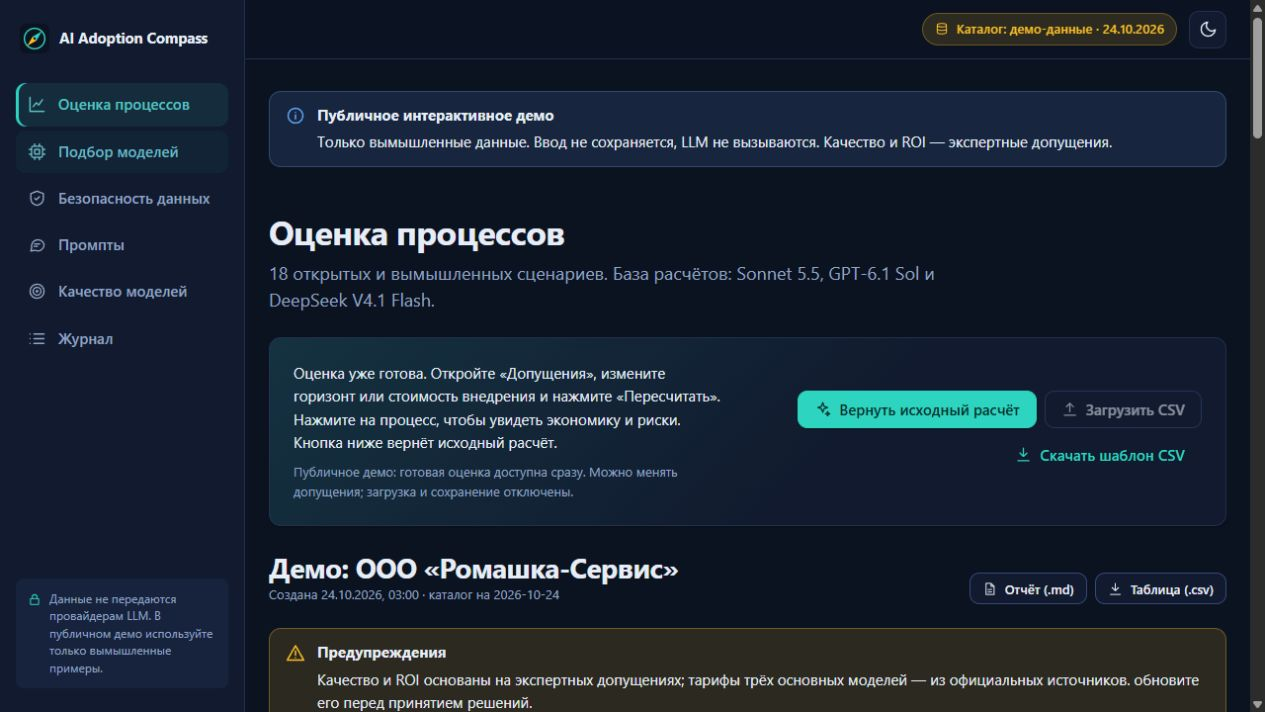
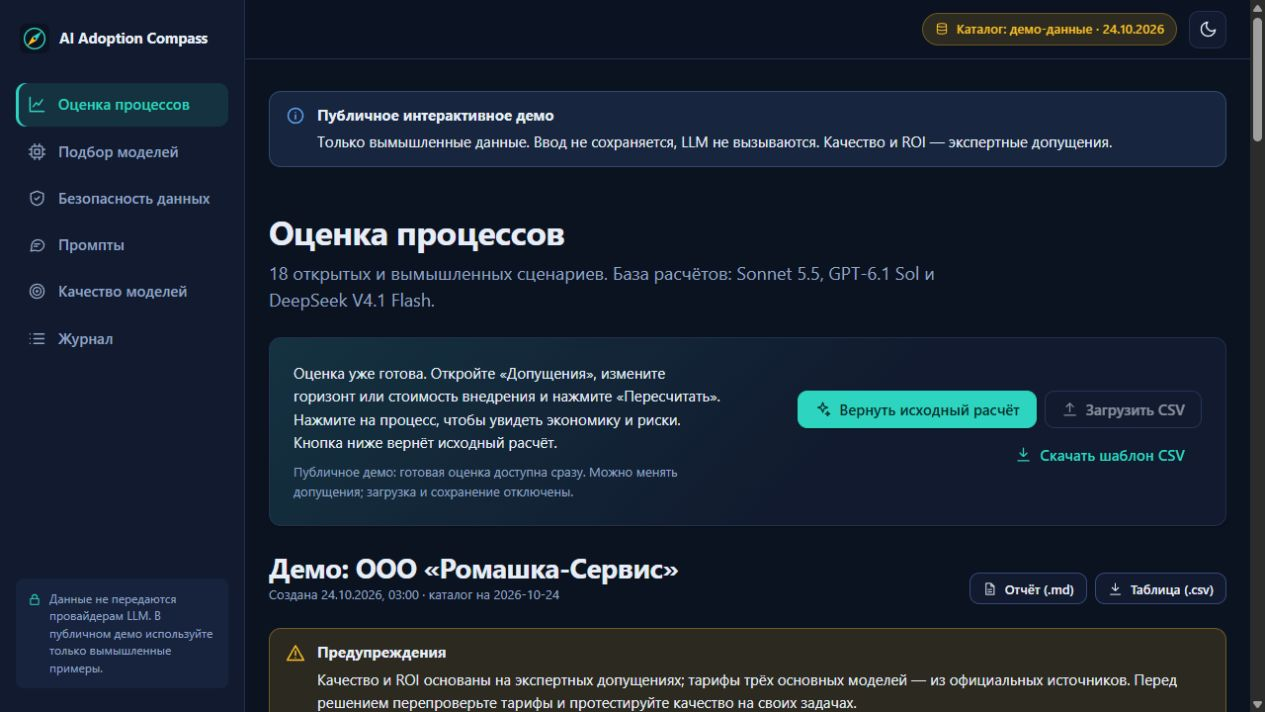
Use the shared expert matrix in the model quality section

Changed region(s): [[0.2466, 0.9579, 0.6783, 1.0], [0.8941, 0.927, 0.9557, 0.9888]]

diff --git a/web/src/pages/evals/EvalsPage.tsx b/web/src/pages/evals/EvalsPage.tsx
@@ -1,12 +1,13 @@
 import { useState } from "react";
-import { getEvalDemo, getMeasuredEvals } from "../../api/client";
-import type { EvalDemo } from "../../api/types";
+import { getCatalog, getEvalDemo, getMeasuredEvals } from "../../api/client";
+import type { EvalDemo, TaskType } from "../../api/types";
 import { Banner, ErrorBanner } from "../../components/ui/Banner";
 import { Button } from "../../components/ui/Button";
 import { CopyButton } from "../../components/ui/CopyButton";
 import { PageHeader } from "../../components/ui/PageHeader";
 import { LoadingRegion, Skeleton } from "../../components/ui/Skeleton";
 import { useAsync } from "../../hooks/useAsync";
+import { useMeta } from "../../hooks/useMeta";
 import { downloadTextFile } from "../../lib/download";
 import { formatCount } from "../../lib/format";
 import { ComparisonTable, pickHighlights } from "./ComparisonTable";
@@ -17,37 +18,41 @@ export const CLI_SNIPPET = [
   "compass eval run -p baseline -p api --base-url https://… --model … --catalog-id …",
 ].join("\n");
 
-export function EvalsPage({ initialMode = "measured" }: { initialMode?: "measured" | "simulated" }) {
-  const [mode, setMode] = useState(initialMode);
-  const evals = useAsync((signal) => mode === "measured" ? getMeasuredEvals(signal) : getEvalDemo(signal), `evals-${mode}`);
+export function EvalsPage({ initialMode }: { initialMode?: "measured" | "simulated" }) {
+  const meta = useMeta();
+  const [mode, setMode] = useState<"expert" | "measured" | "simulated">(initialMode ?? (meta.demo_mode ? "expert" : "measured"));
+  const evals = useAsync(mode === "expert" ? null : (signal) => mode === "measured" ? getMeasuredEvals(signal) : getEvalDemo(signal), `evals-${mode}`);
   const [selected, setSelected] = useState<string | null>(null);
 
   return (
     <>
       <PageHeader
         title="Качество моделей"
-        lead="Сравнение моделей на размеченном наборе: точность, задержка и стоимость. Решение о модели принимают по цифрам на своих данных, а не по рекламе."
+        lead="Экспертные оценки Sonnet 5.5, GPT‑6.1 Sol и DeepSeek V4.1 Flash, используемые в подборе и ROI. Реальные измерения и учебная симуляция доступны отдельно."
       />
 
       <Banner tone="warning" title="Sonnet 5.5, GPT‑6.1 Sol и DeepSeek V4.1 Flash здесь не тестировались">
-        Ниже показан прежний эксперимент с компактными локальными LLM. Он не измеряет качество основных моделей демо.
+        Оценки 1–5 — гипотезы для демонстрации выбора и экономики. Они не являются точностью, F1 или результатами собственных замеров. Прежний эксперимент с компактными LLM доступен в «Реальных измерениях».
         <a href="#/advisor"> Подбор основных моделей, оценки и стоимость →</a>
       </Banner>
 
       <div className="button-row" aria-label="Тип сравнения">
+        <Button variant={mode === "expert" ? "primary" : "secondary"} aria-pressed={mode === "expert"} onClick={() => { setSelected(null); setMode("expert"); }}>Экспертные оценки</Button>
         <Button variant={mode === "measured" ? "primary" : "secondary"} aria-pressed={mode === "measured"} onClick={() => { setSelected(null); setMode("measured"); }}>Реальные измерения</Button>
         <Button variant={mode === "simulated" ? "primary" : "secondary"} aria-pressed={mode === "simulated"} onClick={() => { setSelected(null); setMode("simulated"); }}>Симуляция для обучения</Button>
       </div>
 
-      {evals.error ? <ErrorBanner error={evals.error} onRetry={evals.reload} title="Не удалось загрузить сравнение" /> : null}
-      {evals.loading && !evals.data ? (
+      {mode === "expert" ? <PrimaryQuality /> : null}
+
+      {mode !== "expert" && evals.error ? <ErrorBanner error={evals.error} onRetry={evals.reload} title="Не удалось загрузить сравнение" /> : null}
+      {mode !== "expert" && evals.loading && !evals.data ? (
         <LoadingRegion label="Считаем сравнение…" className="stack">
           <Skeleton height={64} radius={12} />
           <Skeleton height={260} radius={12} />
         </LoadingRegion>
       ) : null}
 
-      {evals.data ? (
+      {mode !== "expert" && evals.data ? (
         <EvalsContent
           demo={evals.data}
           selected={selected ?? pickHighlights(evals.data.reports).best ?? evals.data.reports[0]?.provider ?? ""}
@@ -56,6 +61,23 @@ export function EvalsPage({ initialMode = "measured" }: { initialMode?: "measure
       ) : null}
     </>
   );
+}
+
+function PrimaryQuality() {
+  const meta = useMeta();
+  const catalog = useAsync((signal) => getCatalog(signal), "primary-quality");
+  if (catalog.error) return <ErrorBanner error={catalog.error} onRetry={catalog.reload} title="Не удалось загрузить экспертные оценки" />;
+  if (!catalog.data) return <LoadingRegion label="Загружаем оценки…"><Skeleton height={260} radius={12} /></LoadingRegion>;
+  const models = catalog.data.models.filter((model) => model.profile);
+  return <section className="stack" aria-label="Экспертная матрица базовых моделей">
+    <h2>Одна матрица для подбора и всех процессов</h2>
+    <p className="muted">1 — низкое ожидаемое качество, 5 — высокое. Это относительные предположения для учебных бизнес-задач на русском языке. Значения хранятся в каталоге и не меняются из-за успешной загрузки тарифа. Перед внедрением нужен собственный размеченный набор.</p>
+    <div className="table-wrap" tabIndex={0} role="region" aria-label="Оценки качества по типам задач"><table className="table">
+      <thead><tr><th>Тип задачи</th>{models.map((model) => <th key={model.id}>{model.name}<div className="small muted">экспертно, 1–5</div></th>)}</tr></thead>
+      <tbody>{meta.task_types.map((task) => <tr key={task.value}><th scope="row">{task.label}</th>{models.map((model) => <td key={model.id}>{model.quality[task.value as TaskType]} / 5</td>)}</tr>)}</tbody>
+    </table></div>
+    <p>Приоритет «Качество» учитывает эти оценки; приоритет «Стоимость» может выбрать более дешёвую модель, если она проходит минимальный порог. <a href="#/advisor">Проверить подбор →</a></p>
+  </section>;
 }
 
 function EvalsContent({

diff --git a/docs/FEATURED_MODELS.md b/docs/FEATURED_MODELS.md
@@ -76,6 +76,8 @@ OpenRouter остаются отдельными тарифами агрегат
 
 Собственных измерений качества и задержки этих трёх моделей **нет**. Предыдущий бесплатный локальный эксперимент
 с Qwen и SmolLM2 сохранён, с явным предупреждением, что его результаты не относятся к основным моделям.
+Раздел «Качество моделей» в публичном демо открывает ту же матрицу экспертных оценок по всем девяти типам задач. Прежние реальные измерения и учебная симуляция доступны отдельно.
+
 Экспертные оценки хранятся отдельно от фактов провайдера в `catalog.yaml`. Это демонстрационные гипотезы,
 которые позволяют показать выбор и анализ чувствительности, а не доказанное превосходство моделей:
 

diff --git a/README.md b/README.md
@@ -77,7 +77,7 @@
   </tr>
   <tr>
     <td><img src="docs/assets/screenshots/prompts.png" alt="Библиотека шаблонов и линтер запросов"><br><sub><b>Промпты:</b> шаблоны по отделам, оценка качества, чек-лист проверки ответа</sub></td>
-    <td><img src="docs/assets/screenshots/evals.png" alt="Сравнение моделей на золотом наборе"><br><sub><b>Качество моделей:</b> сравнение с baseline по точности, задержке и стоимости</sub></td>
+    <td><img src="docs/assets/screenshots/evals.png" alt="Экспертные оценки трёх базовых моделей"><br><sub><b>Качество моделей:</b> единая экспертная матрица; реальные измерения доступны отдельно</sub></td>
   </tr>
 </table>
 

diff --git a/README.en.md b/README.en.md
@@ -77,7 +77,7 @@ No installation or account needed. Render Free may take about a minute to wake u
   </tr>
   <tr>
     <td><img src="docs/assets/screenshots/prompts.png" alt="Prompt library and linter"><br><sub>Templates by department, quality score, answer-check checklist</sub></td>
-    <td><img src="docs/assets/screenshots/evals.png" alt="Model evaluation"><br><sub>Models vs. a rules baseline: accuracy, latency, cost</sub></td>
+    <td><img src="docs/assets/screenshots/evals.png" alt="Model evaluation"><br><sub>Shared expert quality matrix; measured benchmarks available separately</sub></td>
   </tr>
 </table>
 
